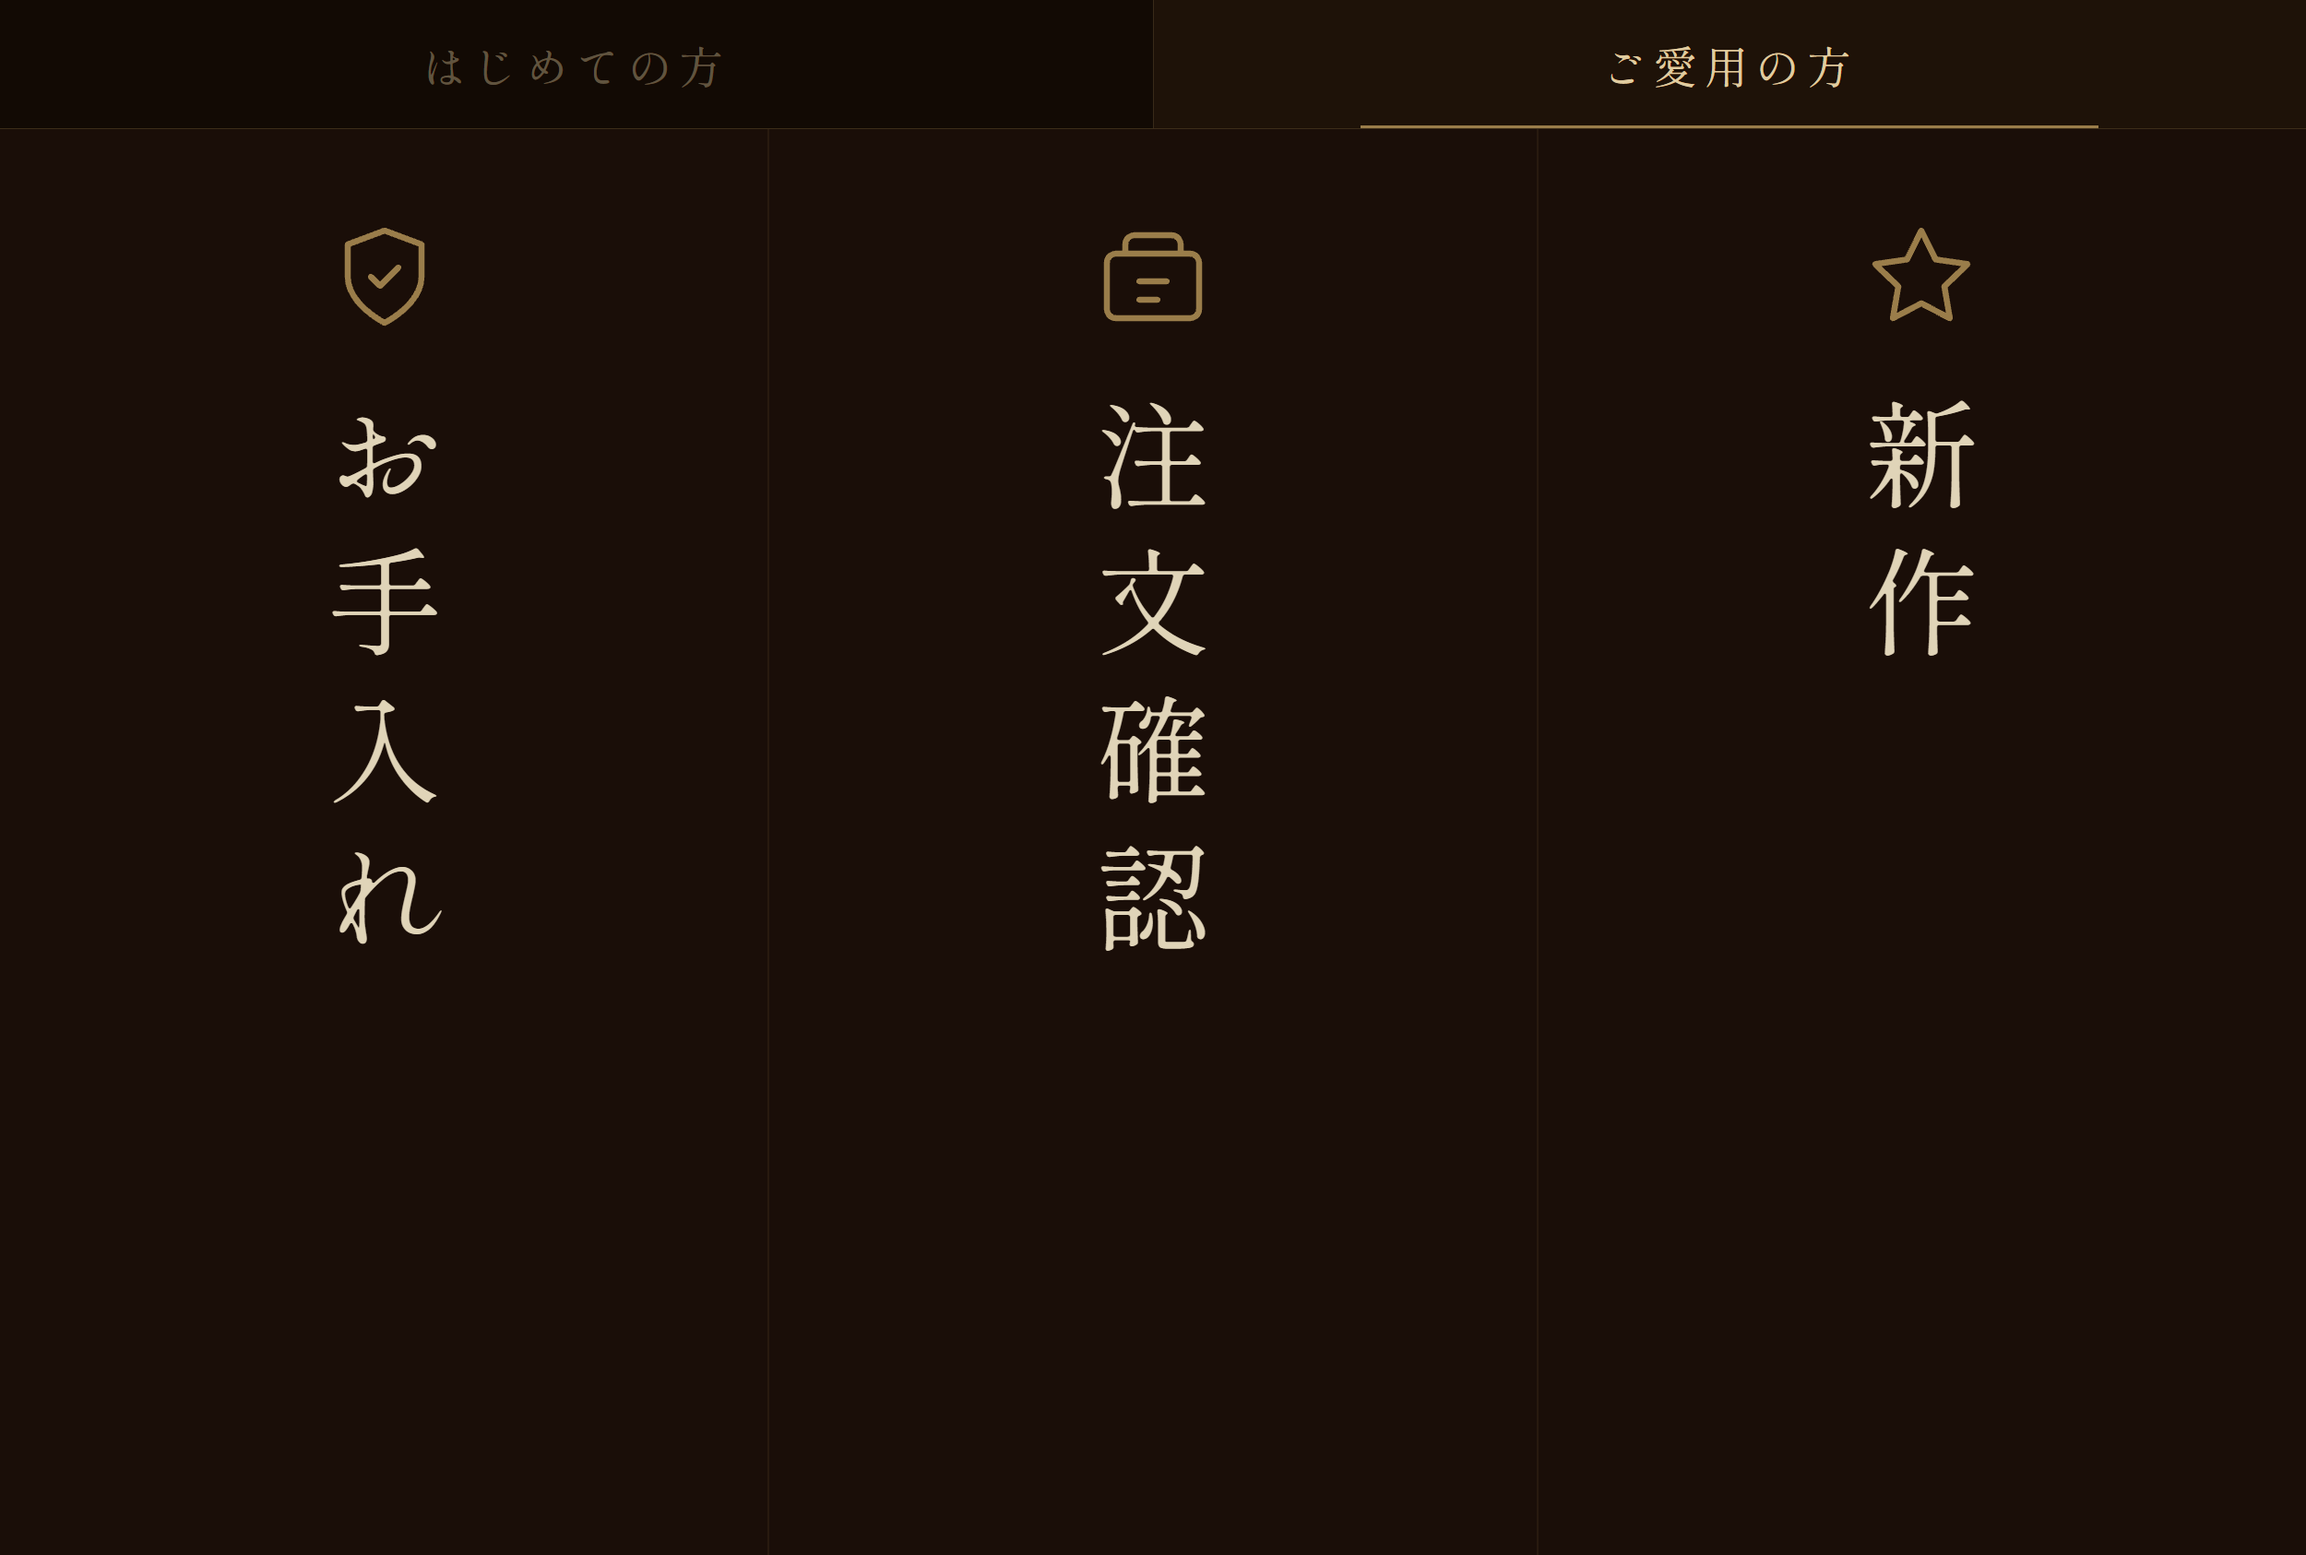
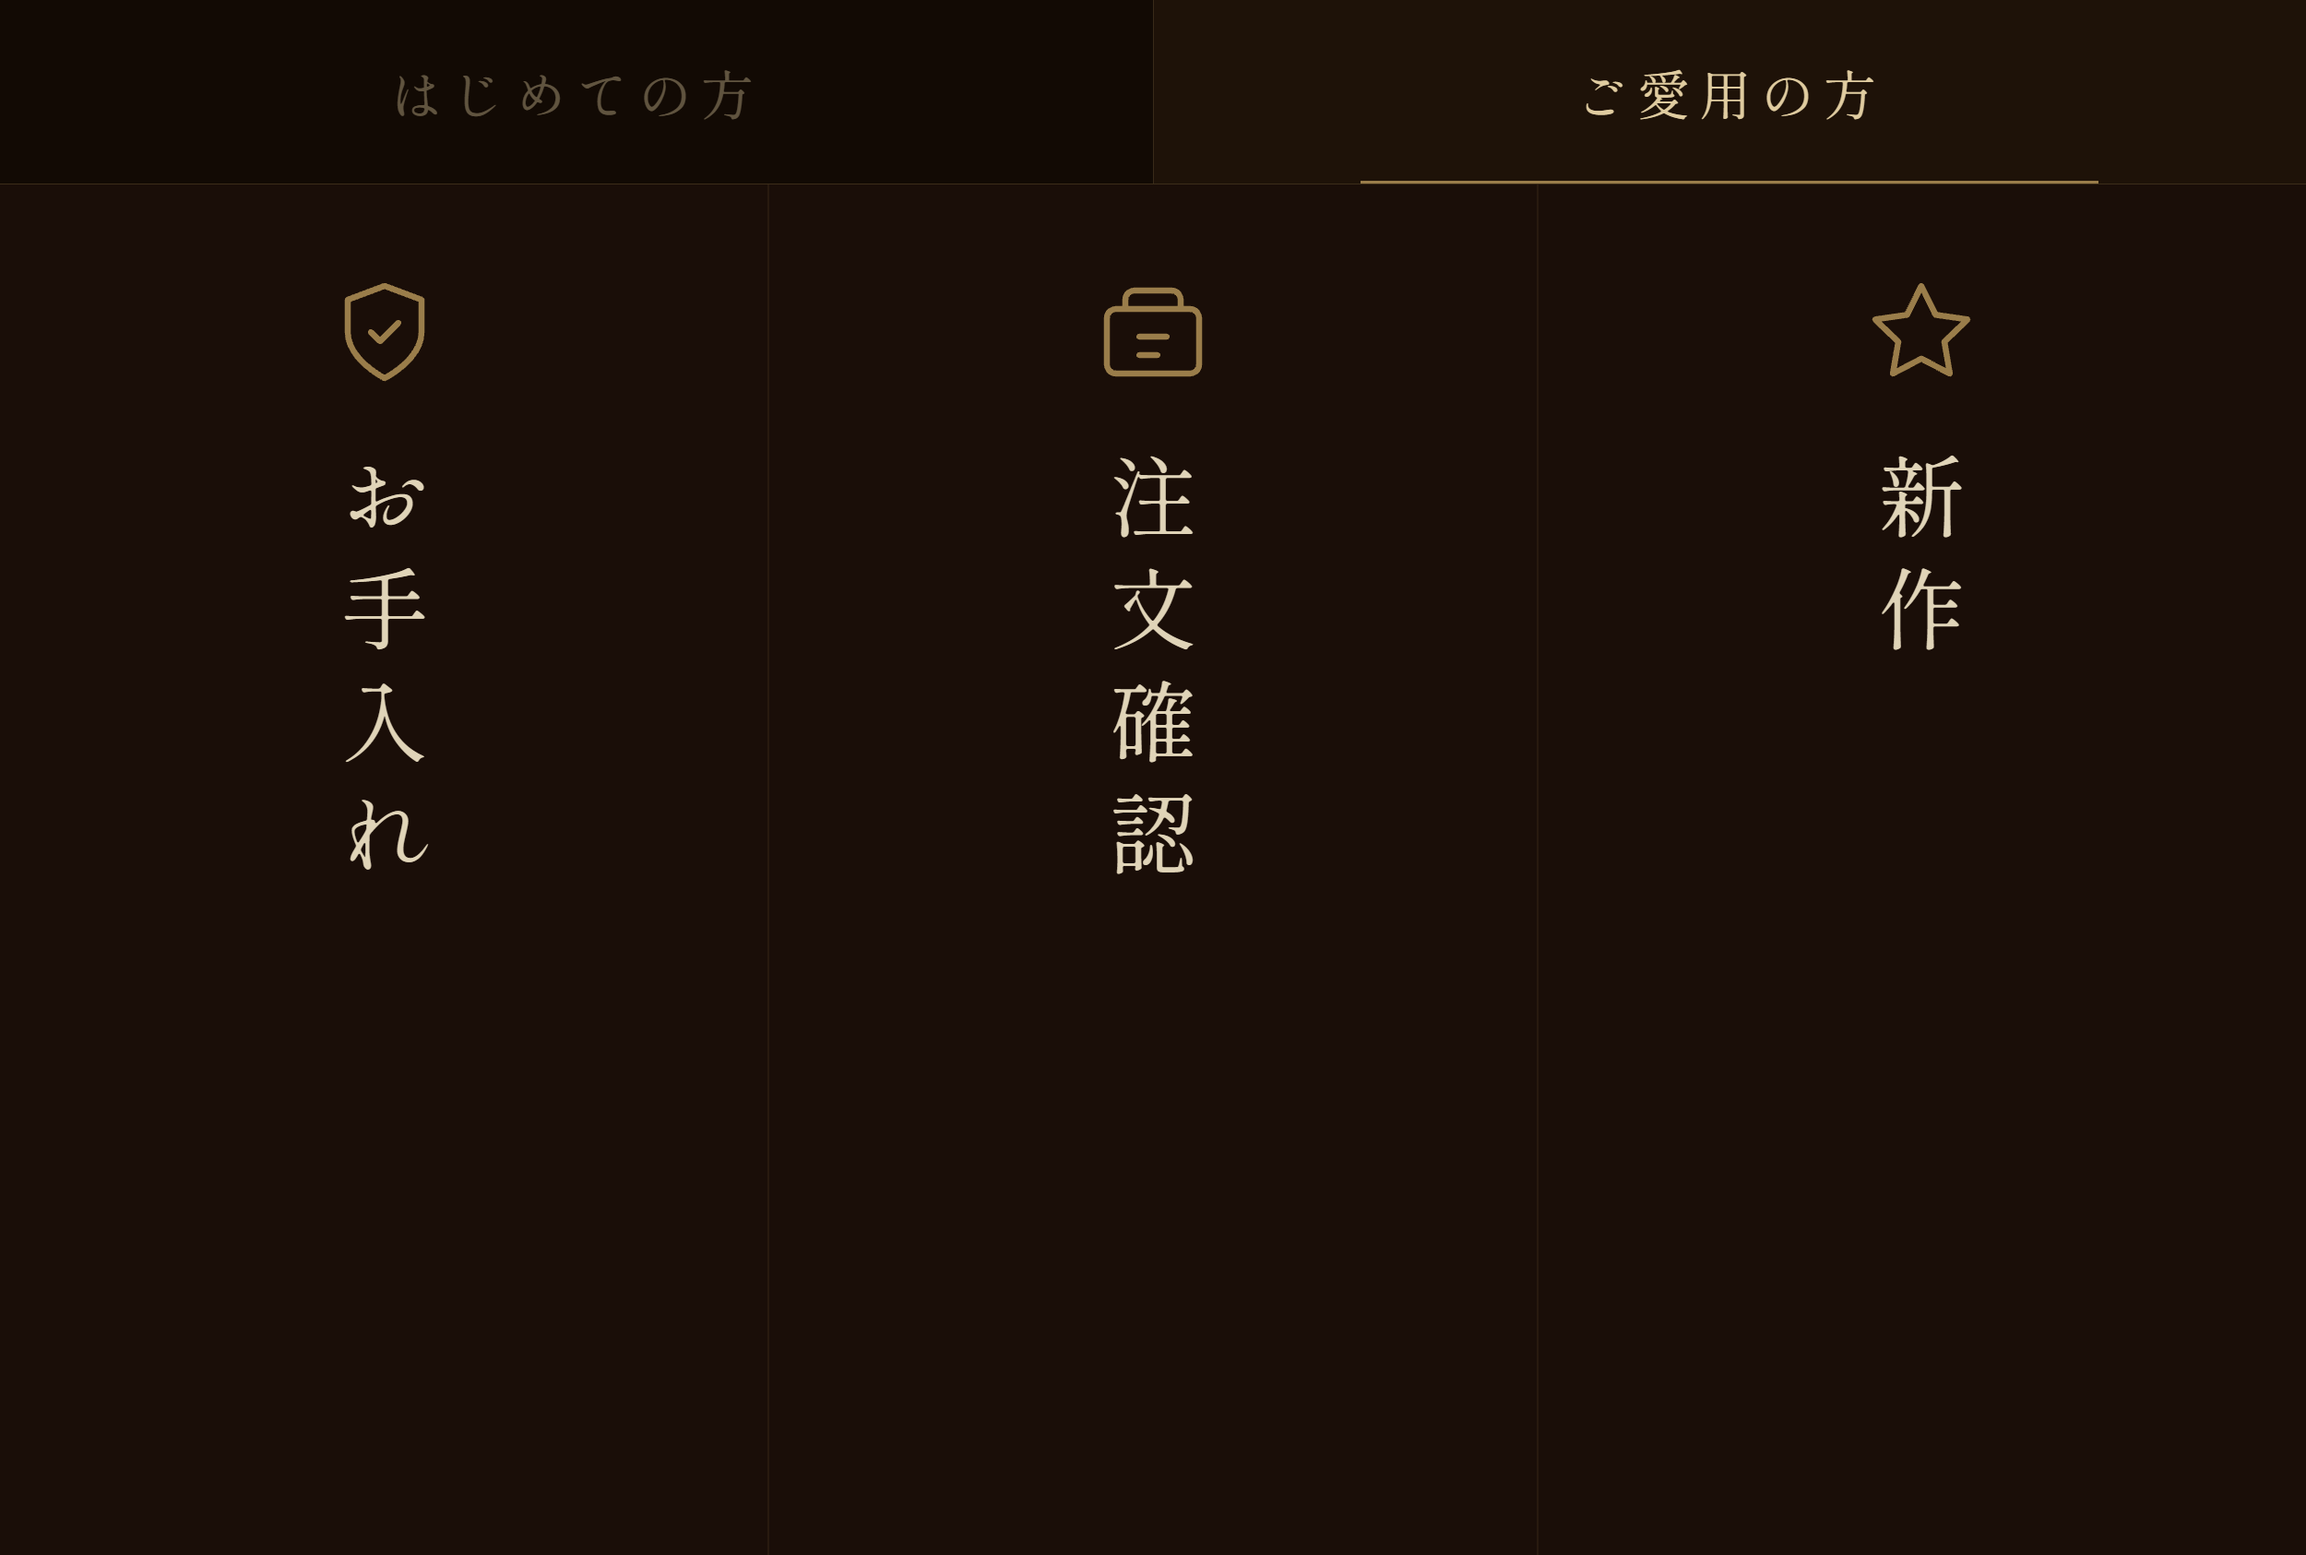
fix: タブバー200px・フォント96pxに調整

diff --git a/designs/richmenu-tab-a.html b/designs/richmenu-tab-a.html
@@ -13,12 +13,12 @@ body {
 }
 .menu { width: 2500px; height: 1686px; display: flex; flex-direction: column; background: #f0ebe0; }
 .tabs {
-  display: flex; align-items: stretch; height: 140px; flex-shrink: 0;
+  display: flex; align-items: stretch; height: 200px; flex-shrink: 0;
   background: #e8e2d4; border-bottom: 1px solid rgba(154,125,74,0.3);
 }
 .tab {
   flex: 1; display: flex; align-items: center; justify-content: center;
-  font-size: 48px; letter-spacing: 0.16em; position: relative;
+  font-size: 58px; letter-spacing: 0.16em; position: relative;
 }
 .tab.active   { color: #9a7d4a; background: #ede7d8; }
 .tab.inactive { color: #b0a898; background: transparent; }
@@ -44,12 +44,12 @@ body {
     text-anchor="start" → テキストは書き出し位置から下へ流れる
     短いラベルは下に余白ができるが、書き出し位置は全列揃い
   -->
-  <svg width="2500" height="1546" xmlns="http://www.w3.org/2000/svg" style="flex-shrink:0;display:block;">
-    <rect width="2500" height="1546" fill="#f0ebe0"/>
-    <line x1="500"  y1="0" x2="500"  y2="1546" stroke="rgba(154,125,74,0.2)" stroke-width="1"/>
-    <line x1="1000" y1="0" x2="1000" y2="1546" stroke="rgba(154,125,74,0.2)" stroke-width="1"/>
-    <line x1="1500" y1="0" x2="1500" y2="1546" stroke="rgba(154,125,74,0.2)" stroke-width="1"/>
-    <line x1="2000" y1="0" x2="2000" y2="1546" stroke="rgba(154,125,74,0.2)" stroke-width="1"/>
+  <svg width="2500" height="1486" xmlns="http://www.w3.org/2000/svg" style="flex-shrink:0;display:block;">
+    <rect width="2500" height="1486" fill="#f0ebe0"/>
+    <line x1="500"  y1="0" x2="500"  y2="1486" stroke="rgba(154,125,74,0.2)" stroke-width="1"/>
+    <line x1="1000" y1="0" x2="1000" y2="1486" stroke="rgba(154,125,74,0.2)" stroke-width="1"/>
+    <line x1="1500" y1="0" x2="1500" y2="1486" stroke="rgba(154,125,74,0.2)" stroke-width="1"/>
+    <line x1="2000" y1="0" x2="2000" y2="1486" stroke="rgba(154,125,74,0.2)" stroke-width="1"/>
 
     <!-- Col 1: 金木犀の花言葉 (cx=250) -->
     <g transform="translate(250,160)">
@@ -59,7 +59,7 @@ body {
     </g>
     <text x="250" y="290" writing-mode="vertical-rl" text-anchor="start"
           font-family="'Shippori Mincho B1','Hiragino Mincho ProN','Yu Mincho',serif"
-          font-size="126" letter-spacing="34" fill="#1e1c16">金木犀の花言葉</text>
+          font-size="96" letter-spacing="26" fill="#1e1c16">金木犀の花言葉</text>
 
     <!-- Col 2: ギフト (cx=750) -->
     <g transform="translate(750,160)">
@@ -71,7 +71,7 @@ body {
     </g>
     <text x="750" y="290" writing-mode="vertical-rl" text-anchor="start"
           font-family="'Shippori Mincho B1','Hiragino Mincho ProN','Yu Mincho',serif"
-          font-size="126" letter-spacing="34" fill="#1e1c16">ギフト</text>
+          font-size="96" letter-spacing="26" fill="#1e1c16">ギフト</text>
 
     <!-- Col 3: 銘木を知る (cx=1250) -->
     <g transform="translate(1250,160)">
@@ -82,7 +82,7 @@ body {
     </g>
     <text x="1250" y="290" writing-mode="vertical-rl" text-anchor="start"
           font-family="'Shippori Mincho B1','Hiragino Mincho ProN','Yu Mincho',serif"
-          font-size="126" letter-spacing="34" fill="#1e1c16">銘木を知る</text>
+          font-size="96" letter-spacing="26" fill="#1e1c16">銘木を知る</text>
 
     <!-- Col 4: 銘木診断 (cx=1750) -->
     <g transform="translate(1750,160)">
@@ -94,7 +94,7 @@ body {
     </g>
     <text x="1750" y="290" writing-mode="vertical-rl" text-anchor="start"
           font-family="'Shippori Mincho B1','Hiragino Mincho ProN','Yu Mincho',serif"
-          font-size="126" letter-spacing="34" fill="#1e1c16">銘木診断</text>
+          font-size="96" letter-spacing="26" fill="#1e1c16">銘木診断</text>
 
     <!-- Col 5: 作品を見る (cx=2250) -->
     <g transform="translate(2250,160)">
@@ -104,7 +104,7 @@ body {
     </g>
     <text x="2250" y="290" writing-mode="vertical-rl" text-anchor="start"
           font-family="'Shippori Mincho B1','Hiragino Mincho ProN','Yu Mincho',serif"
-          font-size="126" letter-spacing="34" fill="#1e1c16">作品を見る</text>
+          font-size="96" letter-spacing="26" fill="#1e1c16">作品を見る</text>
   </svg>
 </div>
 </body>

diff --git a/designs/richmenu-tab-b.html b/designs/richmenu-tab-b.html
@@ -13,12 +13,12 @@ body {
 }
 .menu { width: 2500px; height: 1686px; display: flex; flex-direction: column; background: #1a0e08; }
 .tabs {
-  display: flex; align-items: stretch; height: 140px; flex-shrink: 0;
+  display: flex; align-items: stretch; height: 200px; flex-shrink: 0;
   background: #120a04; border-bottom: 1px solid rgba(154,125,74,0.3);
 }
 .tab {
   flex: 1; display: flex; align-items: center; justify-content: center;
-  font-size: 48px; letter-spacing: 0.16em; position: relative;
+  font-size: 58px; letter-spacing: 0.16em; position: relative;
 }
 .tab.active   { color: #e0cca0; background: #1e1208; }
 .tab.inactive { color: rgba(224,204,160,0.38); background: transparent; }
@@ -41,10 +41,10 @@ body {
     content_h=1546, icon_cy=160, text_start_y=290, text-anchor="start"
     全列のアイコン・書き出しを同じ高さに揃える
   -->
-  <svg width="2500" height="1546" xmlns="http://www.w3.org/2000/svg" style="flex-shrink:0;">
-    <rect width="2500" height="1546" fill="#1a0e08"/>
-    <line x1="833"  y1="0" x2="833"  y2="1546" stroke="rgba(154,125,74,0.22)" stroke-width="1"/>
-    <line x1="1667" y1="0" x2="1667" y2="1546" stroke="rgba(154,125,74,0.22)" stroke-width="1"/>
+  <svg width="2500" height="1486" xmlns="http://www.w3.org/2000/svg" style="flex-shrink:0;">
+    <rect width="2500" height="1486" fill="#1a0e08"/>
+    <line x1="833"  y1="0" x2="833"  y2="1486" stroke="rgba(154,125,74,0.22)" stroke-width="1"/>
+    <line x1="1667" y1="0" x2="1667" y2="1486" stroke="rgba(154,125,74,0.22)" stroke-width="1"/>
     <defs>
       <linearGradient id="gold-line" x1="0" y1="0" x2="1" y2="0">
         <stop offset="0%"   stop-color="rgba(154,125,74,0)"/>
@@ -66,7 +66,7 @@ body {
     </g>
     <text x="417" y="290" writing-mode="vertical-rl" text-anchor="start"
           font-family="'Shippori Mincho B1','Hiragino Mincho ProN','Yu Mincho',serif"
-          font-size="126" letter-spacing="34" fill="#e0d4b8">お手入れ</text>
+          font-size="96" letter-spacing="26" fill="#e0d4b8">お手入れ</text>
 
     <!-- Col 2: 注文確認 (cx=1250) -->
     <g transform="translate(1250,160)">
@@ -79,7 +79,7 @@ body {
     </g>
     <text x="1250" y="290" writing-mode="vertical-rl" text-anchor="start"
           font-family="'Shippori Mincho B1','Hiragino Mincho ProN','Yu Mincho',serif"
-          font-size="126" letter-spacing="34" fill="#e0d4b8">注文確認</text>
+          font-size="96" letter-spacing="26" fill="#e0d4b8">注文確認</text>
 
     <!-- Col 3: 新作 (cx=2083) -->
     <g transform="translate(2083,160)">
@@ -90,7 +90,7 @@ body {
     </g>
     <text x="2083" y="290" writing-mode="vertical-rl" text-anchor="start"
           font-family="'Shippori Mincho B1','Hiragino Mincho ProN','Yu Mincho',serif"
-          font-size="126" letter-spacing="34" fill="#e0d4b8">新作</text>
+          font-size="96" letter-spacing="26" fill="#e0d4b8">新作</text>
   </svg>
 
 </div>

diff --git a/lib/line/richmenu.ts b/lib/line/richmenu.ts
@@ -73,9 +73,9 @@ export const KINMOKUSEI_MENU: RichMenuDef = {
 //   Tab A → "kinmokusei-menu-a"
 //   Tab B → "kinmokusei-menu-b"
 // ──────────────────────────────────────────────
-const TAB_H  = 140
-const CONT_Y = 140
-const CONT_H = 1546
+const TAB_H  = 200
+const CONT_Y = 200
+const CONT_H = 1486
 
 export const ALIAS_A = 'kinmokusei-menu-a'
 export const ALIAS_B = 'kinmokusei-menu-b'
